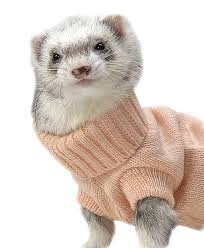
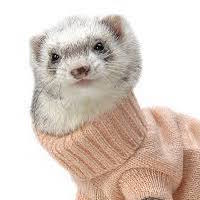
added ferret images to home state.

diff --git a/public/views/partials/home.html b/public/views/partials/home.html
@@ -9,37 +9,37 @@
       <div class="row">
           <div class="col-lg-4 col-md-6 col-sm-6">
               <div class="successStory">
-                <img class="img-circle" src="https://placehold.it/200x200">
+                <img class="img-circle" src="/images/patron-beard.jpg">
                 <p>Lorem ipsum dolor sit amet, consectetur adipisicing elit. Sed architecto sit natus obcaecati perferendis fugiat facilis porro est veniam. Incidunt architecto quae recusandae tempora beatae quod ut unde natus odio!</p>
               </div>
           </div>
             <div class="col-lg-4 col-md-6 col-sm-6">
                 <div class="successStory">
-                  <img class="img-circle" src="https://placehold.it/200x200">
+                  <img class="img-circle" src="/images/ferret-sweater.jpeg">
                   <p>Lorem ipsum dolor sit amet, consectetur adipisicing elit. Sed architecto sit natus obcaecati perferendis fugiat facilis porro est veniam. Incidunt architecto quae recusandae tempora beatae quod ut unde natus odio!</p>
                 </div>
             </div>
             <div class="col-lg-4 col-md-6 col-sm-6">
                 <div class="successStory">
-                  <img class="img-circle" src="https://placehold.it/200x200">
+                  <img class="img-circle" src="images/patron-kissferret.jpeg">
                   <p>Lorem ipsum dolor sit amet, consectetur adipisicing elit. Sed architecto sit natus obcaecati perferendis fugiat facilis porro est veniam. Incidunt architecto quae recusandae tempora beatae quod ut unde natus odio!</p>
                 </div>
             </div>
             <div class="col-lg-4 col-md-6 col-sm-6">
                 <div class="successStory">
-                  <img class="img-circle img-responsive" src="https://placehold.it/200x200">
+                  <img class="img-circle img-responsive" src="images/ferret-leash.jpeg">
                   <p>Lorem ipsum dolor sit amet, consectetur adipisicing elit. Sed architecto sit natus obcaecati perferendis fugiat facilis porro est veniam. Incidunt architecto quae recusandae tempora beatae quod ut unde natus odio!</p>
                 </div>
             </div>
             <div class="col-lg-4 col-md-6 col-sm-6">
                 <div class="successStory">
-                  <img class="img-circle" src="https://placehold.it/200x200">
+                  <img class="img-circle" src="images/ferret-on-tireSwing.jpg">
                   <p>Lorem ipsum dolor sit amet, consectetur adipisicing elit. Sed architecto sit natus obcaecati perferendis fugiat facilis porro est veniam. Incidunt architecto quae recusandae tempora beatae quod ut unde natus odio!</p>
                 </div>
             </div>
           <div class="col-lg-4 col-md-6 col-sm-6">
               <div class="successStory">
-                <img class="img-circle" src="https://placehold.it/200x200">
+                <img class="img-circle" src="images/adopted-ferret.jpg">
                 <p>Lorem ipsum dolor sit amet, consectetur adipisicing elit. Sed architecto sit natus obcaecati perferendis fugiat facilis porro est veniam. Incidunt architecto quae recusandae tempora beatae quod ut unde natus odio!</p>
               </div>
           </div>
